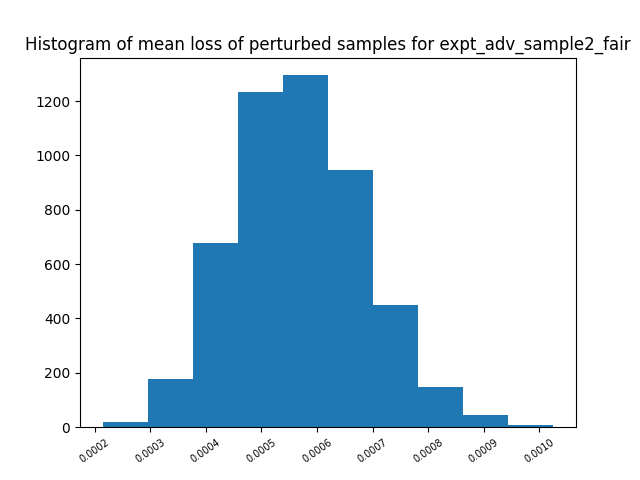
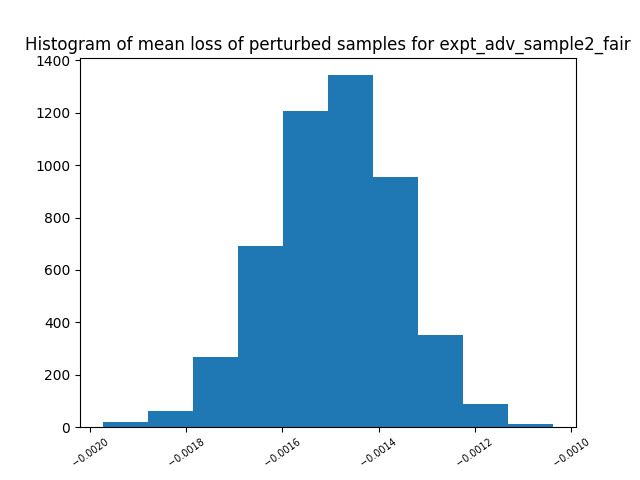
modified:   misha/adversarial_sample.py modified:   misha/adversarial_sample_fair.py

diff --git a/misha/adversarial_sample_fair.py b/misha/adversarial_sample_fair.py
@@ -67,7 +67,7 @@ def distance_ratio(data_point, regularizer = 1e0, learning_rate = 1e-3, num_step
             prob_base = graph(fair_transform(x_base))
             prob_start = graph(fair_transform(x_start))
             perturb = x - x_start
-            loss = (utils.kl(prob_base, prob_start))/(tf.norm(perturb)+1)
+            loss = (utils.EntropyLoss(y, prob_base)-utils.EntropyLoss(y, prob_start))/(tf.norm(perturb)+1)
 
         gradient = g.gradient(loss, x_base)
         x_base = x_base + learning_rate * gradient 
@@ -79,7 +79,7 @@ def distance_ratio(data_point, regularizer = 1e0, learning_rate = 1e-3, num_step
             prob_fair = graph(fair_transform(x_fair))
             prob_start = graph(fair_transform(x_start))
             perturb = tf.matmul(x - x_start, unprotected_directions)
-            loss = (utils.kl(prob_fair, prob_start))/(tf.norm(perturb)+1)
+            loss = (utils.EntropyLoss(y, prob_fair)-utils.EntropyLoss(y, prob_start))/(tf.norm(perturb)+1)
 
         gradient = g.gradient(loss, x_fair)
         x_fair = x_fair + learning_rate * gradient 

diff --git a/misha/adversarial_sample.py b/misha/adversarial_sample.py
@@ -65,7 +65,7 @@ def distance_ratio(data_point, regularizer = 1e0, learning_rate = 1e-3, num_step
             prob_base = graph(x_base)
             prob_start = graph(x_start)
             perturb = x - x_start
-            loss = utils.kl(prob_base, prob_start)/(tf.norm(perturb)+1)
+            loss = (utils.EntropyLoss(y, prob_base)-utils.EntropyLoss(y, prob_start))/(tf.norm(perturb)+1)
 
         gradient = g.gradient(loss, x_base)
         x_base = x_base + learning_rate * gradient 
@@ -77,7 +77,7 @@ def distance_ratio(data_point, regularizer = 1e0, learning_rate = 1e-3, num_step
             prob_fair = graph(x_fair)
             prob_start = graph(x_start)
             perturb = tf.matmul(x - x_start, unprotected_directions)
-            loss = (utils.kl(prob_fair, prob_start))/(tf.norm(perturb)+1)
+            loss = (utils.EntropyLoss(y, prob_fair)-utils.EntropyLoss(y, prob_start))/(tf.norm(perturb)+1)
 
         gradient = g.gradient(loss, x_fair)
         x_fair = x_fair + learning_rate * gradient 
